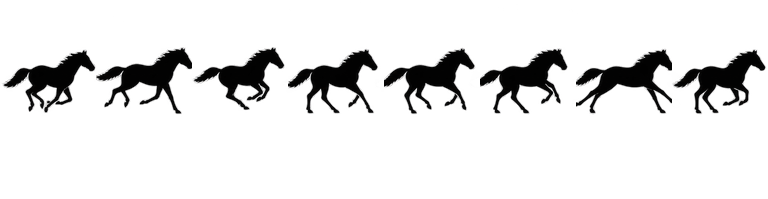
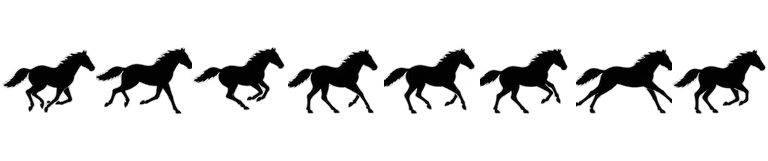
ギャロップ画像とローディングバーの間隔を詰める(v1.21.3)
原因はCSS余白ではなく画像内の透明余白(フレーム下部約4割)。全コマ共通の空白帯をクロップして除去、表示サイズをCSSも合わせて縮小。

Changed region(s): [[0.0, 0.2174, 1.0, 0.7143]]

diff --git a/index.html b/index.html
@@ -3,7 +3,7 @@
 <head>
 <meta charset="UTF-8">
 <meta name="viewport" content="width=device-width, initial-scale=1.0">
-<meta name="app-version" content="1.21.2">
+<meta name="app-version" content="1.21.3">
 <title>FSScreener - フルストライド(FullStride)馬市場検索ツール</title>
 <meta name="description" content="予算・脚質・ステータスでフルストライド(FullStride)の馬市場を検索。史実紹介コラム付きのファン制作ツール">
 <meta property="og:type" content="website">
@@ -29,7 +29,7 @@
 <link rel="preconnect" href="https://fonts.googleapis.com">
 <link rel="preconnect" href="https://fonts.gstatic.com" crossorigin>
 <link href="https://fonts.googleapis.com/css2?family=Staatliches&family=Zen+Kaku+Gothic+New:wght@400;500;700&family=IBM+Plex+Mono:wght@400;500;700&display=swap" rel="stylesheet">
-<link rel="stylesheet" href="style.css?v=1.21.2">
+<link rel="stylesheet" href="style.css?v=1.21.3">
 <script type="application/ld+json">
 {
   "@context": "https://schema.org",
@@ -242,6 +242,6 @@
   <div class="visit-counter"><img src="https://visitor-badge.laobi.icu/badge?page_id=jiz41.FSScreener" alt="visit counter"></div>
 </footer>
 
-<script src="script.js?v=1.21.2"></script>
+<script src="script.js?v=1.21.3"></script>
 </body>
 </html>

diff --git a/style.css b/style.css
@@ -1115,13 +1115,13 @@ footer a {
 
 .gallop-sprite {
   width: 48px;
-  height: 100px;
+  height: 81px;
   background-image: url("images/horse-gallop.png");
   background-repeat: no-repeat;
-  background-size: 384px 100px;
+  background-size: 384px 81px;
   background-position: 0 0;
   animation: fscGallop 680ms steps(8) infinite;
-  margin-bottom: 10px;
+  margin-bottom: 2px;
 }
 
 @keyframes fscGallop {
